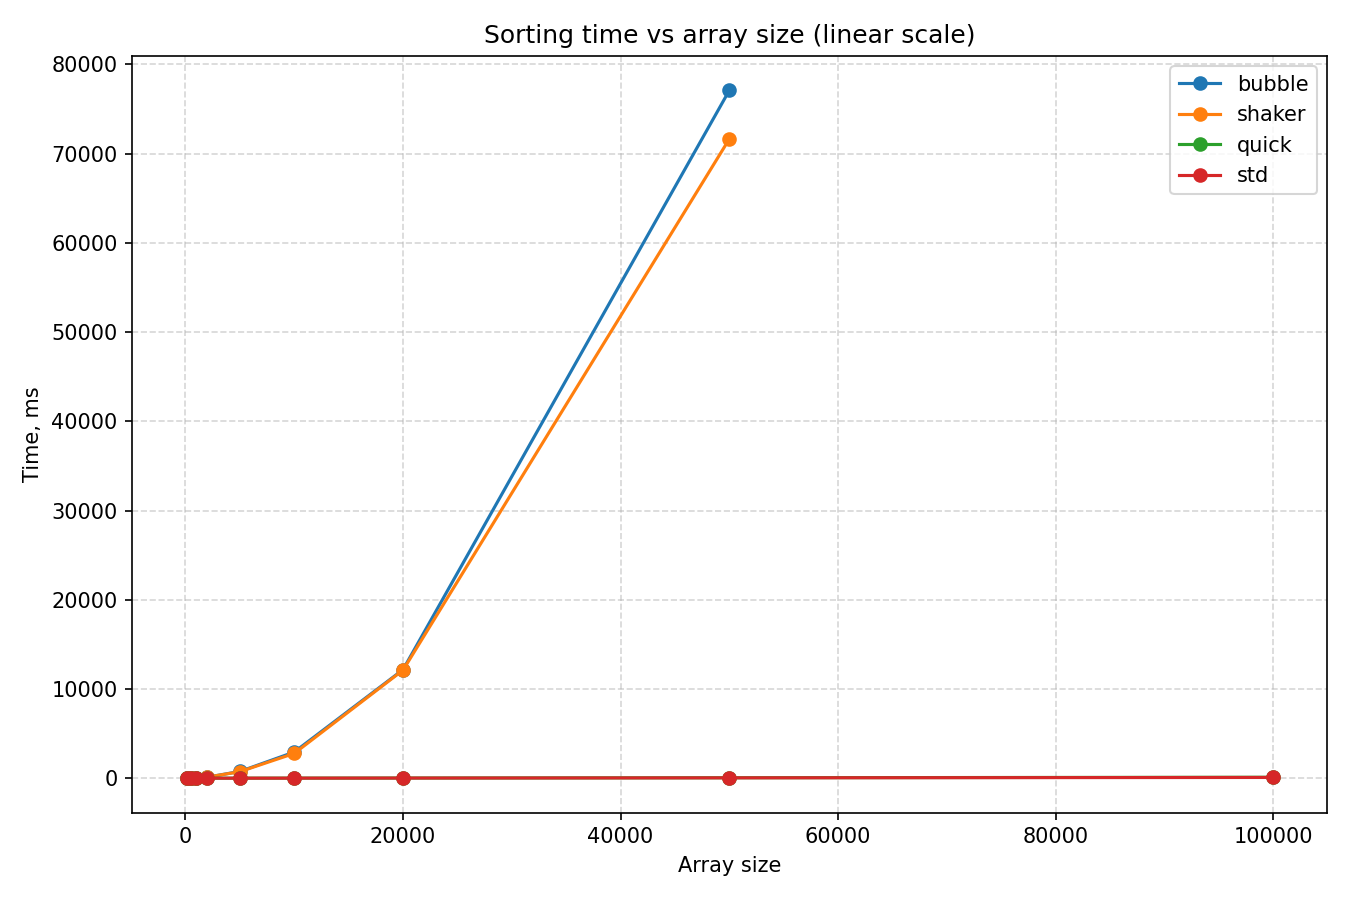
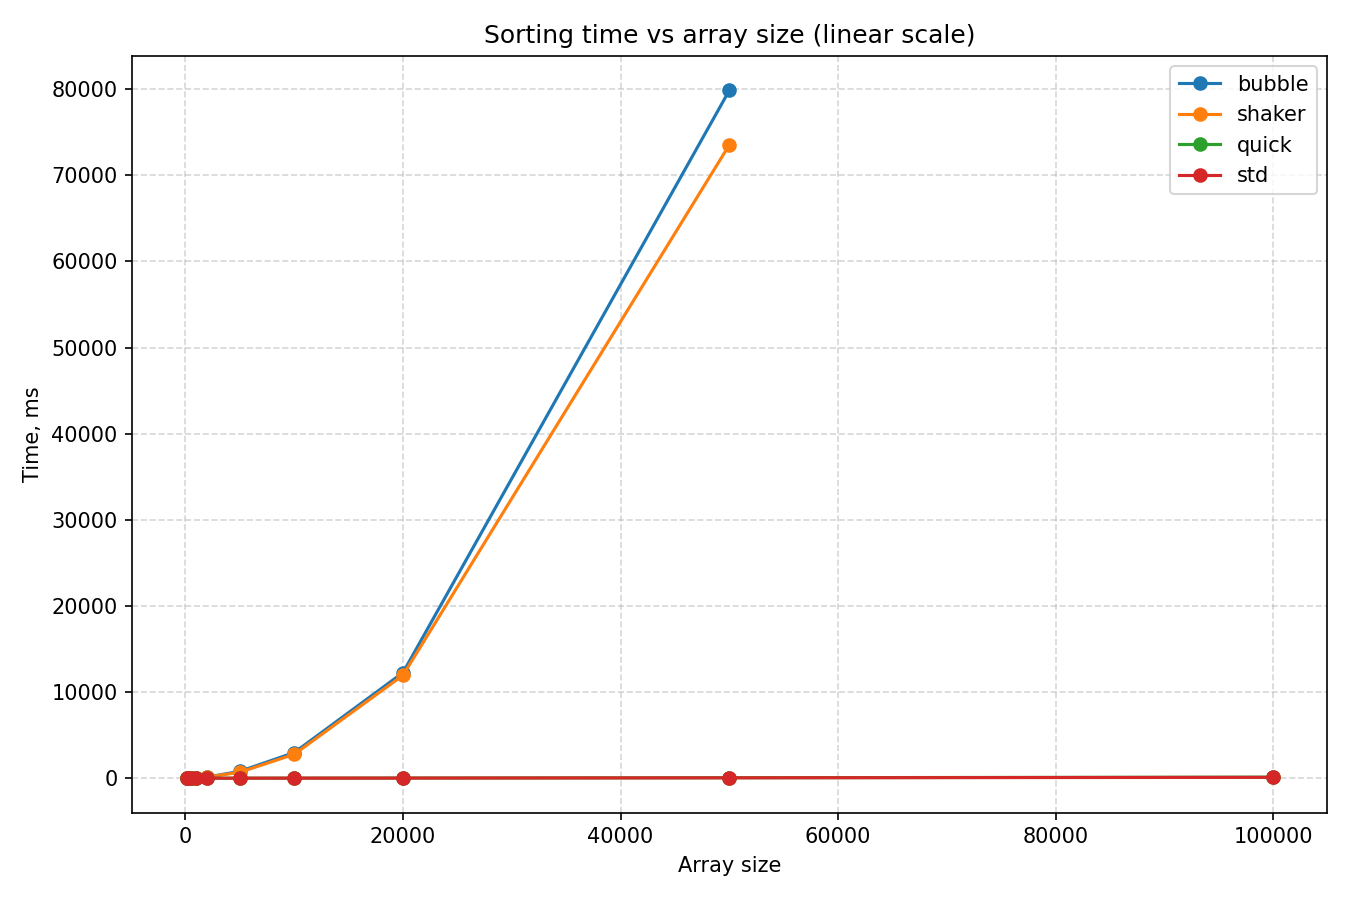
v0.12 fixed data read from generated csv file instead of memory

diff --git a/main.cpp b/main.cpp
@@ -23,7 +23,15 @@ struct Flight{
     std::string arrivalDate;
     std::string arrivalTime;
     int passengers = 0;
-
+    /**
+     * @brief Функция сравнения
+     *
+     * Порядок полей: дата прилета, время прилета, авиакомпания, (по возрастанию)
+     * пассажиры (по убыванию)
+     *
+     * @param other другой полет для сравнения.
+     * @return -1 если этот < другого, 0 если одинковые все поля, +1 если этот > другого.
+     */
     int compare(const Flight& other) const {
         if (arrivalDate < other.arrivalDate) return -1;
         if (arrivalDate > other.arrivalDate) return +1;
@@ -84,6 +92,16 @@ std::vector<Flight> generateFlights(size_t n, unsigned seed){
     return flights;
 }
 
+/**
+ * @brief Функция замера времени сортировки
+ * 
+ * Копирует данные, которые будут сортироваться. Для каждого запуска записывает какое время было до сортировки,
+ * сортирует данные, записывает время после сортировки.
+ * Вычитает из времени после сортировки время до сортировки и добавляет в общее время. Делит на количество запусков.
+ * 
+ * @return Среднее время на сортировку за n=3 запуска
+ */
+
 double measure(const std::vector<Flight>& source,
                void (*sortFunc)(std::vector<Flight>&),
                int runs = 3) {
@@ -104,9 +122,8 @@ void stdSort(std::vector<Flight>& a){
     std::sort(a.begin(), a.end());
 }
 
-// Пузырёк
 /**
- * @brief Сортирует вектор полетов пузырьком с флагом на ранний выход
+ * @brief Сортировка пузырьком
  *
  * Проходит по парам элементов в массиве и меняет соседние элементы,
  * если они не отсоритрованы. Каждый цикл прохода уменьшает неотсортированный массив на один элемент,
@@ -134,9 +151,8 @@ void bubbleSort(std::vector<Flight>& a) {
     } 
 }
 
-// Шейкер
 /**
- * @brief Сортирует вектор полетов шейкером с флагом на ранний выход
+ * @brief Сортировка шейкером
  *
  * Проходит по парам элементов в массиве с двух сторон и меняет соседние элементы,
  * если они не отсоритрованы. Каждый цикл прохода уменьшает неотсортированный массив на два элемента,
@@ -176,9 +192,9 @@ void shakerSort(std::vector<Flight>& a) {
 }
 
 // Быстрая сортировка и все вспомогательные функции для нее
-// Среднее из трех
 /**
- * @brief Находит pivot сортирует 3 элемента (на первой позиции меньший элемент из трех,
+ * @brief Нахождение среднего
+ * Находит pivot сортирует 3 элемента (на первой позиции меньший элемент из трех,
  * на pivot средний из трех, на последней позиции самый большой из трех)
  * 
  * @param a Вектор из полетов, где ищем средний индекс.
@@ -193,7 +209,7 @@ size_t medianOfThree(std::vector<Flight>& a, size_t lo, size_t hi){
     if (a[hi] < a[mid]) std::swap(a[mid], a[hi]);
     return mid;
 }
-// Разбиение на меньшие массивы
+
 /**
  * @brief Разбиение Хоара для быстрой сортировки
  * 
@@ -227,9 +243,11 @@ size_t partition(std::vector<Flight>& a, size_t lo, size_t hi) {
         --j;
     }
 }
-// Исполнение быстрой сортировки с задаваемыми границами
+
 /**
- * @brief Выполняет быструю сортировку с принимаемыми границами,
+ * @brief Быстрая сортировка
+ * 
+ * Выполняет быструю сортировку с принимаемыми границами,
  * основная рекурсиваная функция которая и сортирует массив при помощи
  * partition и medianOfThreee
  * 
@@ -250,6 +268,16 @@ void quickSort(std::vector<Flight>& a) {
     quickSortImpl(a, 0, a.size() - 1);
 }
 
+/**
+ * @brief Функция для чтения полетов из .CSV файла
+ * 
+ * Открывает файл (если не может - выдает ошибку) и считывает первую строку - 
+ * считывает первую строку и никуда ее не записывает, дальше проходится по строчке
+ * разделяя данные и записывая их в соответствующую переменную
+ * 
+ * @param path путь включая файл откуда читать данные
+ * @return Возвращает массив полетов
+ */
 std::vector<Flight> readFlights(const std::string& path){
     std::vector<Flight> flights;
     std::ifstream in(path);
@@ -277,6 +305,14 @@ std::vector<Flight> readFlights(const std::string& path){
     return flights;
 }
 
+/**
+ * @brief Функция записи полетов в файл
+ * 
+ * Открывает файл (если не может открыть - выдает ошибку) и записывает данные с разделителями
+ * 
+ * @param path куда записывать
+ * @param flights что записывать
+ */
 void writeFlights(const std::string& path, const std::vector<Flight>& flights) {
     std::ofstream out(path);
     if (!out) {
@@ -293,7 +329,14 @@ void writeFlights(const std::string& path, const std::vector<Flight>& flights) {
             << f.passengers << '\n';
     }
 }
-
+/**
+ * @brief Функция вывода полетов
+ * 
+ * Красиво выводит полеты в консоль
+ * 
+ * @param title название 
+ * @param flights полеты
+ */
 void printFlights(const std::string& title, const std::vector<Flight>& flights) {
     std::cout << "===== " << title << " =====\n";
     for (const Flight& f : flights) {
@@ -312,18 +355,25 @@ int main() {
     out << "size,algorithm,time_ms\n";
 
     for (size_t n : sizes) {
-        std::cout << "size = " << n << "\n";
-        std::vector<Flight> source = generateFlights(n, 52);
+        std::cout << "size = " << n << "\n" << std::flush;
+
+        // Генерируем датасеты и сохраняем и в csv
+        std::string path = "data/dataset_" + std::to_string(n) + ".csv";
+        std::vector<Flight> generated = generateFlights(n, 42);
+        writeFlights(path, generated);
+
+        // берем датасаты для сортировки
+        std::vector<Flight> source = readFlights(path);
 
         double t_bubble = (n <= 50000) ? measure(source, bubbleSort) : -1.0;
         double t_shaker = (n <= 50000) ? measure(source, shakerSort) : -1.0;
-        double t_quick = measure(source, quickSort);
-        double t_std = measure(source, stdSort);
+        double t_quick  = measure(source, quickSort);
+        double t_std    = measure(source, stdSort);
 
         if (t_bubble >= 0) std::cout << "  bubble: " << t_bubble << " ms\n";
         if (t_shaker >= 0) std::cout << "  shaker: " << t_shaker << " ms\n";
         std::cout << "  quick : " << t_quick << " ms\n";
-        std::cout << "  std   : " << t_std << " ms\n";
+        std::cout << "  std   : " << t_std    << " ms\n";
 
         if (t_bubble >= 0) out << n << ",bubble," << t_bubble << "\n";
         if (t_shaker >= 0) out << n << ",shaker," << t_shaker << "\n";
